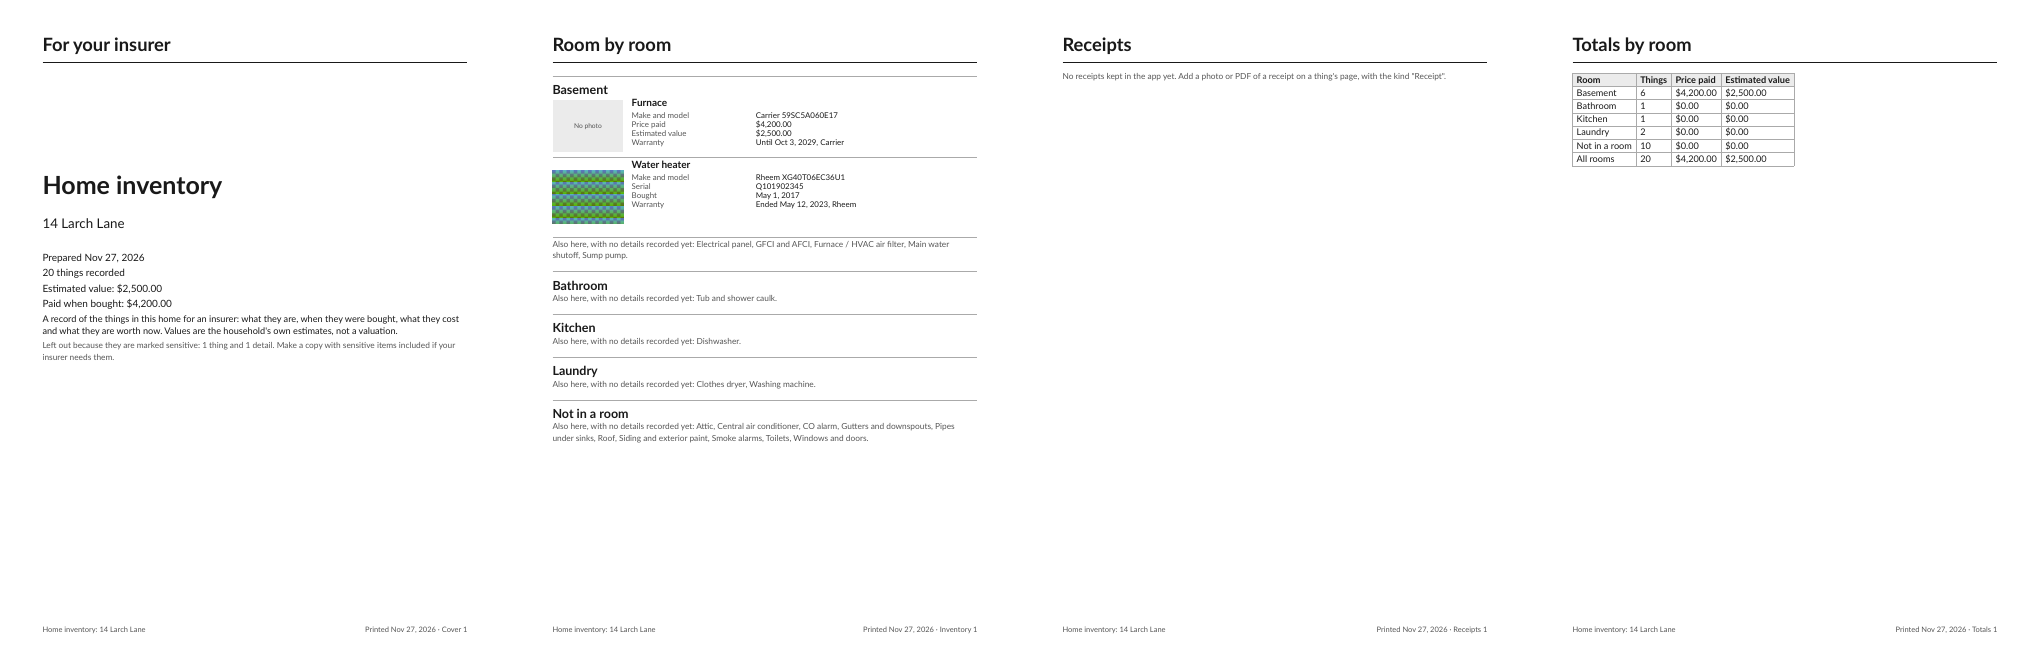
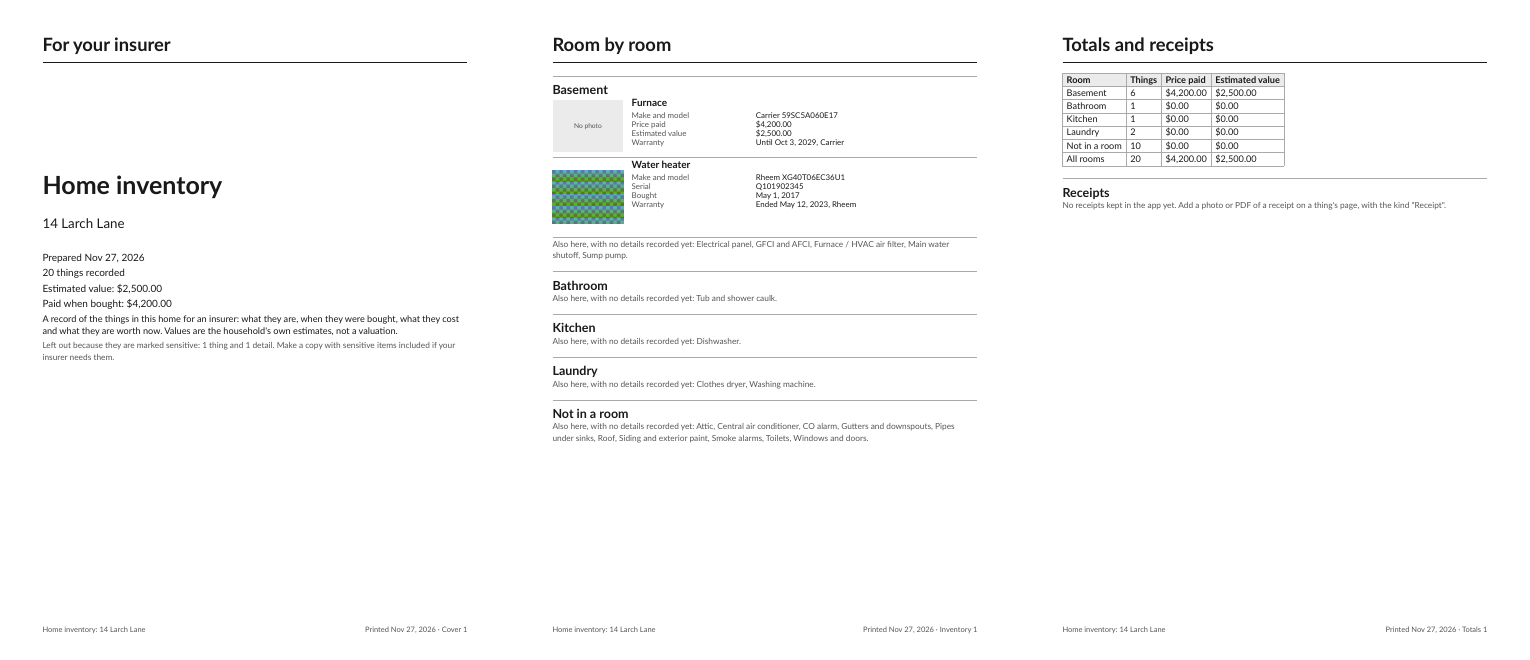
Phase 9 evidence: the inventory's final pages

diff --git a/docs/phase-9-evidence/README.md b/docs/phase-9-evidence/README.md
@@ -26,7 +26,7 @@ its own page and every thing a box, even with nothing recorded about it
 (nine mostly empty pages for twenty things). Fixed: rooms follow one
 another, things with nothing recorded are named in one line per room,
 receipts share a page with the totals, and the cover no longer repeats its
-title. Four pages now.
+title. Three pages now for this household.
 
 ## Android
 
